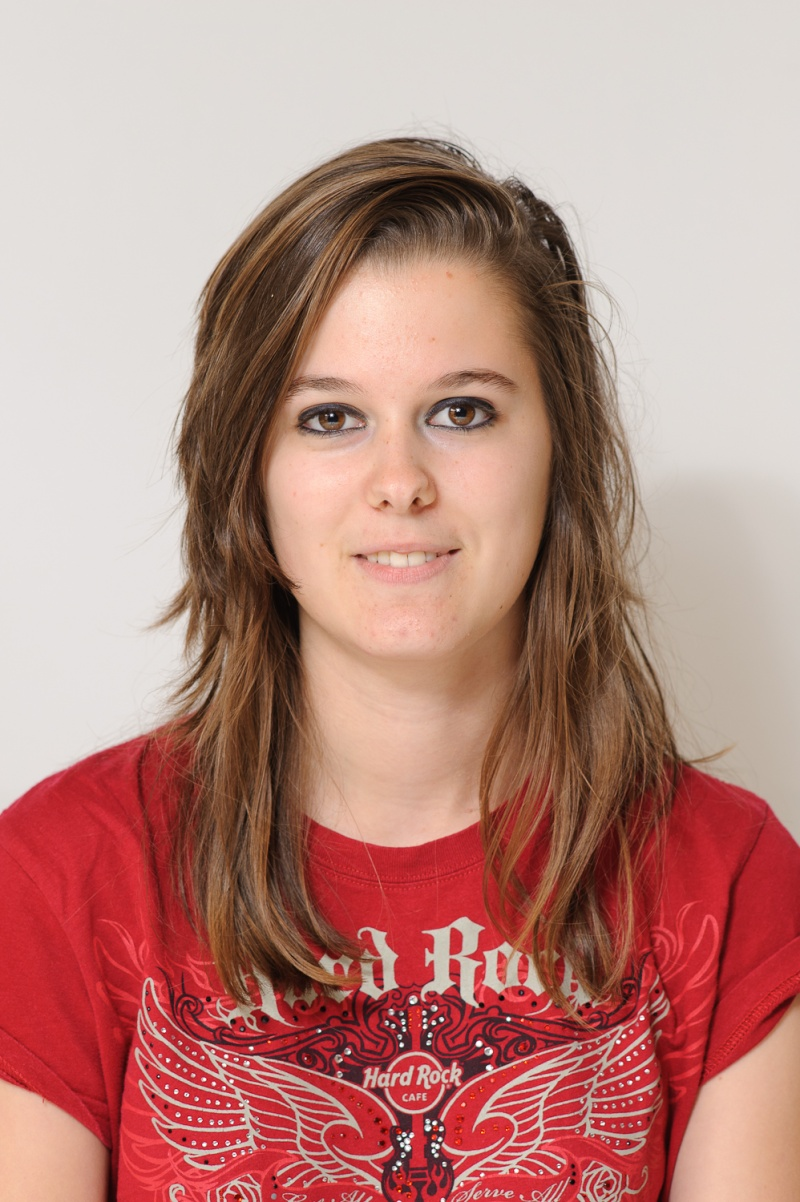
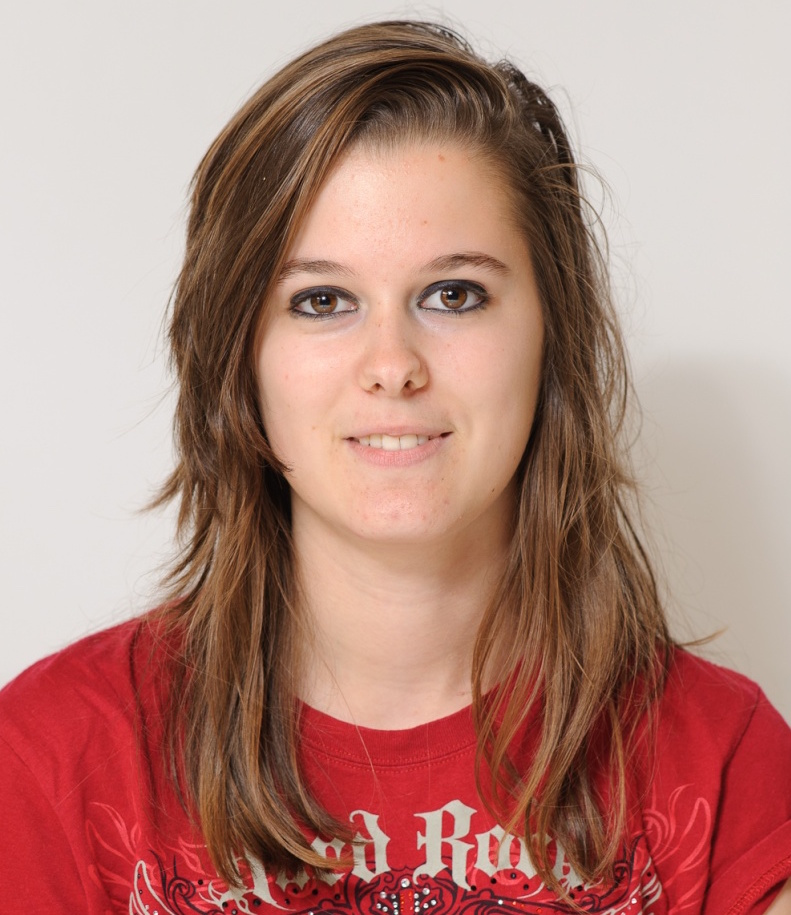
Ajout photos + index base en csv + modification code reco

diff --git a/OPENCVProject/Business/FaceDetection.cpp b/OPENCVProject/Business/FaceDetection.cpp
@@ -38,28 +38,28 @@ using namespace std;
 
 void recognise(Mat image){
 
-    // Let's say we want to keep 10 Eigenfaces and have a threshold value of 10.0
     int num_components = 10;
-    double threshold = 10.0;
+    double threshold = 0;
     int radius=1;
     int neighbors=8;
     int grid_x=8;
     int grid_y=8;
-    // Then if you want to have a cv::FaceRecognizer with a confidence threshold,
-    // create the concrete implementation with the appropiate parameters:
+
     //todo : construction base à refaire une fois BDD dispo
+    //Mat img0 = treatment(imread("../../OpenCVProject/BDD jpg/img0.jpg"),false);
     Mat img1 = treatment(imread("../../OpenCVProject/BDD jpg/img1.jpg"),false);
     Mat img2 = treatment(imread("../../OpenCVProject/BDD jpg/img2.jpg"),false);
     Mat img3 = treatment(imread("../../OpenCVProject/BDD jpg/img3.jpg"),false);
     Mat img4 = treatment(imread("../../OpenCVProject/BDD jpg/img4.jpg"),false);
+    Mat img5 = treatment(imread("../../OpenCVProject/BDD jpg/img5.jpg"),false);
+    Mat img6 = treatment(imread("../../OpenCVProject/BDD jpg/img6.jpg"),false);
 
+    vector<Mat> images = {img1,img2,img3,img4,img5,img6};
+    vector<int> labels = {1,2,3,4,5,6};
 
-    vector<Mat> images = {img1,img2,img3,img4};
-    vector<int> labels = {1,2,3,4};
-
-    Ptr<face::FaceRecognizer> model = face::createEigenFaceRecognizer(num_components, threshold);
+    //Ptr<face::FaceRecognizer> model = face::createEigenFaceRecognizer(num_components, threshold);
     //Ptr<face::FaceRecognizer> model = face::createFisherFaceRecognizer(num_components, threshold);
-    //Ptr<cv::face::FaceRecognizer> model = face::createLBPHFaceRecognizer(radius, neighbors, grid_x, grid_y, threshold);
+    Ptr<cv::face::FaceRecognizer> model = face::createLBPHFaceRecognizer(radius, neighbors, grid_x, grid_y, threshold);
 
     model->train(images, labels);
 
@@ -68,16 +68,12 @@ void recognise(Mat image){
     //double current_threshold = model->getDouble("threshold");
     // And this line sets the threshold to 0.0:
     //model->set("threshold", 0.0);
-
-
-    Mat img = imread("../../OpenCVProject/BDD jpg/img0.jpg", CV_LOAD_IMAGE_GRAYSCALE);
-    // Get a prediction from the model. Note: We've set a threshold of 0.0 above,
-    // since the distance is almost always larger than 0.0, you'll get -1 as
-    // label, which indicates, this face is unknown
-    int predicted_label = model->predict(img);
-    // ...
-    cout << predicted_label;
-
-
+    image=treatment(image, false);
+    int predicted_label = model->predict(image);
+    cout << "label image reconnue :" << endl;
+    cout << predicted_label << endl;
+    if(predicted_label == -1){
+        cout << "face not recognized..." << endl;
+    }
 
 }

diff --git a/OPENCVProject/Business/PreTreatment.cpp b/OPENCVProject/Business/PreTreatment.cpp
@@ -33,7 +33,5 @@ Mat treatment(Mat image, bool equal){
     if (equal){
         cv::equalizeHist(image3, image3);
     }
-    imshow("image traitee",image3);
-    waitKey(0);
     return image3;
 }
